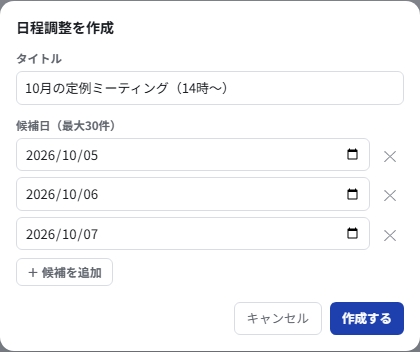
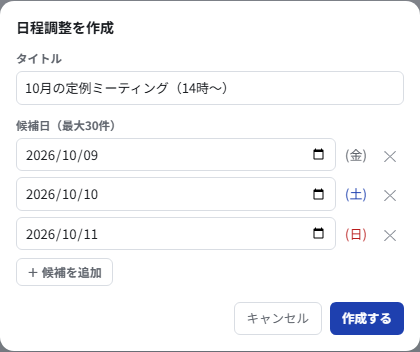
日程調整の作成画面で、候補日の右に曜日を表示する
ブラウザ標準の日付欄は曜日を表示しないため、各候補日の右に「(金)」のように曜日を出す
（土曜は青、日曜は赤）。操作マニュアル5.8節・app_help/manual.mdとキャプチャを更新した。

diff --git a/docs/06_操作マニュアル.html b/docs/06_操作マニュアル.html
@@ -65,6 +65,7 @@
       <tr><td>1.34</td><td>2026-09-30</td><td>サイドバーのDMが最近やり取りした順に並び、30日以上やり取りの無いDMが隠れるようになったことを3章・14章に追記した。</td></tr>
       <tr><td>1.35</td><td>2026-09-30</td><td>ユーザーからの報告「←キーで太字・コードの途中へ戻って入力しようとすると、入力はその書式のままなのにボタンの表示だけ解除される（Slackと異なる）」を受け、書式ボタンの表示をSlackと同じく「カーソルの直前の文字の書式」に合わせるようにした。5.2節「記法を直接入力する」を更新した。</td></tr>
       <tr><td>1.36</td><td>2026-09-30</td><td>ユーザーからの要望を受け、コードブロックの最後の行の末尾で↓キーを押すと、Slackと同じくコードブロックの下に普通の行ができるようにした。5.2節の書式一覧（コードブロック）を更新した。</td></tr>
+      <tr><td>1.39</td><td>2026-09-30</td><td>ユーザーからの要望を受け、日程調整の作成画面で候補日の右に曜日を表示するようにした。5.8節を更新した。</td></tr>
       <tr><td>1.38</td><td>2026-09-30</td><td>ユーザーからの要望「作成者が日にちや時間をいくつか提示し、回答者が○△×で回答して都合がいい人が最も多い日程を決める機能」を受け、日程調整機能を追加した。5.8節を新設し、1.1節の機能一覧・14章FAQにも追記した。</td></tr>
       <tr><td>1.37</td><td>2026-09-30</td><td>ユーザーからの要望「リンクを確定した後の投稿欄の表示を送信後と同じ感じにしてほしい」を受け、投稿欄でもリンクを表示文字だけで表示するようにした。5.2節の書式一覧（リンク）を更新した。</td></tr>
     </tbody>
@@ -349,7 +350,7 @@
   <ol>
     <li>投稿欄の左下にある、カレンダーのアイコンの「<strong>日程調整を作成</strong>」ボタンを押します（図5-8。アンケートの棒グラフのアイコンの右隣です。右端にある時計のアイコンは送信予約（12.3節）なので間違えないでください）。</li>
     <li>「日程調整を作成」画面が開くので、「<strong>タイトル</strong>」を入力します（例: 10月の定例ミーティング（14時〜））。</li>
-    <li>「<strong>候補日</strong>」に日付を入力します。候補は日付だけで、時刻を選ぶ欄はありません。時刻を伝えたい場合はタイトルに書いてください。「<strong>＋ 候補を追加</strong>」を押すと、直前の候補の翌日の行が追加されます（最大30件。各行の右の✕で減らせます）。</li>
+    <li>「<strong>候補日</strong>」に日付を入力します。候補は日付だけで、時刻を選ぶ欄はありません。時刻を伝えたい場合はタイトルに書いてください。選んだ日付の右に曜日が表示されます（土曜は青、日曜は赤）。「<strong>＋ 候補を追加</strong>」を押すと、直前の候補の翌日の行が追加されます（最大30件。各行の右の✕で減らせます）。</li>
     <li>「<strong>作成する</strong>」を押すと、会話に日程調整が投稿されます。候補は入力した順ではなく、日付の早い順に並びます。</li>
   </ol>
   <figure class="shot">

diff --git a/frontend/src/components/CreateSchedulePollModal.tsx b/frontend/src/components/CreateSchedulePollModal.tsx
@@ -16,6 +16,22 @@ function toDateInput(d: Date): string {
   return `${d.getFullYear()}-${pad(d.getMonth() + 1)}-${pad(d.getDate())}`
 }
 
+const WEEKDAYS = '日月火水木金土'
+
+/** 日付欄の横に出す曜日（ブラウザ標準の日付欄は曜日を表示しないため）。未入力ならnull */
+function weekdayIndex(value: string): number | null {
+  if (!value) return null
+  const d = new Date(`${value}T00:00:00`)
+  return Number.isNaN(d.getTime()) ? null : d.getDay()
+}
+
+/** 土日だけ色を変える（カレンダーの慣習どおり日曜=赤・土曜=青） */
+function weekdayColor(day: number | null): string {
+  if (day === 0) return 'text-danger-text'
+  if (day === 6) return 'text-accent-600'
+  return 'text-ink-muted'
+}
+
 /** 「＋ 候補を追加」で足す行の初期値。直前の行の翌日にする（連続した日を候補に並べることが
  * 多いため、毎回日付を選び直さずに済むように） */
 function nextDate(prev: string | undefined): string {
@@ -109,6 +125,9 @@ export function CreateSchedulePollModal({
                 aria-label={`候補 ${i + 1} の日付`}
                 className={`min-w-0 flex-1 ${inputCls}`}
               />
+              <span className={`w-7 flex-none text-center text-[13px] ${weekdayColor(weekdayIndex(d))}`}>
+                {weekdayIndex(d) !== null ? `(${WEEKDAYS[weekdayIndex(d)!]})` : ''}
+              </span>
               <button
                 type="button"
                 onClick={() => removeDate(i)}
